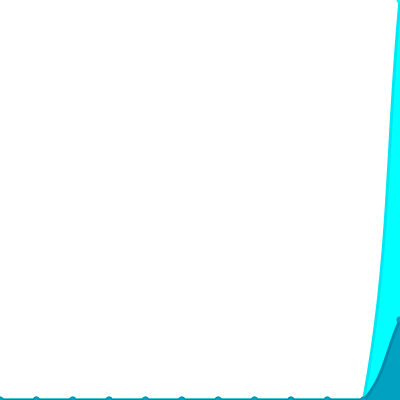
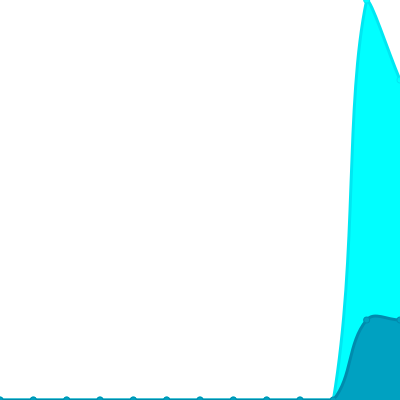
Update views

diff --git a/README.md b/README.md
@@ -26,7 +26,7 @@ The project created and maintained by [gayanvoice](https://github.com/gayanvoice
 			</a>
 		</td>
 		<td>
-			2025/11/29 12:50 AM UTC
+			2025/11/30 12:58 AM UTC
 		</td>
 		<td>
 			1
@@ -37,7 +37,7 @@ The project created and maintained by [gayanvoice](https://github.com/gayanvoice
 	</tr>
 </table>
 
-<small><i>Last updated on 2025/12/1 6:17 PM UTC</i></small>
+<small><i>Last updated on 2025/12/2 12:53 AM UTC</i></small>
 
 ## ✂Copy and 📋 Paste
 ### Total Views Badge

diff --git a/readme/1105230173/year.md b/readme/1105230173/year.md
@@ -20,6 +20,17 @@
 	</tr>
 	<tr>
 		<td>
+			<code>2025/12/1</code>
+		</td>
+		<td>
+			<code>1</code>
+		</td>
+		<td>
+			<code>4</code>
+		</td>
+	</tr>
+	<tr>
+		<td>
 			<code>2025/11/1</code>
 		</td>
 		<td>
@@ -153,7 +164,7 @@
 </table>
 
 </details>
-<small><i>Last updated on 2025/12/1 6:17 PM UTC</i></small>
+<small><i>Last updated on 2025/12/2 12:52 AM UTC</i></small>
 
 ## ✂Copy and 📋 Paste
 ### SVG Badge
